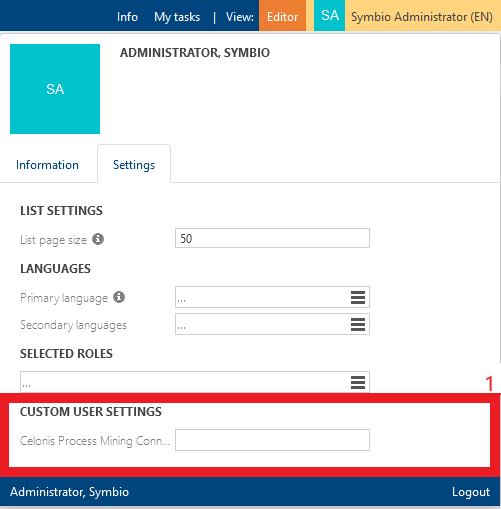
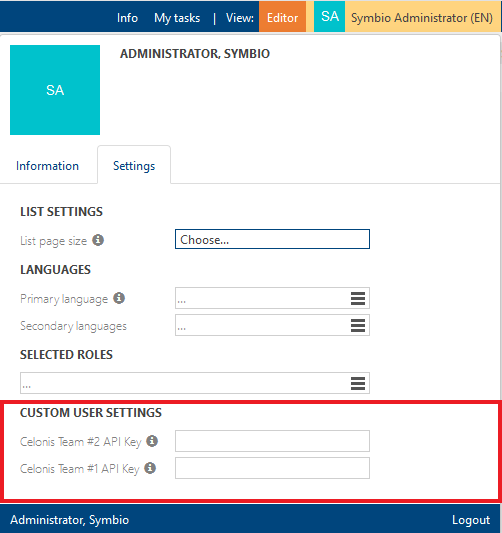
Resolved comments

diff --git a/docs/admin/services/celonis-process-mining-connector/configuration.md b/docs/admin/services/celonis-process-mining-connector/configuration.md
@@ -6,20 +6,28 @@
 1. Log on to the **/_sysadmin/_admin** section of Symbio (Requires System Administration access)
 1. Switch to "Editor" mode
 1. Go to the Admin area ![admin](media/admin.png)
-1. Go to the "Extended configuration" ![extended configuration](media/extendedcfg.png)
+1. Navigate to the "Extended configuration" ![extended configuration](media/extendedcfg.png)
 1. Select "New" and add a type for an external system with a preferred name (e.g. Celonis Process Mining Connector)
 1. Set the following attributes
-   1. **Name:** (Preferred Name, e.g. Celonis Process Mining Connector)
+   1. **Name:** (Preferred Name, e.g. Celonis Connector)
    1. **Description:** This service is used to export Symbio processes to Celonis and/or vice versa
-1. Upload the SYEX file under the settings "upload" group with the Title: "Celonis"
+1. Select the **"Add"**-Button in the "Settings"-Group of the detail content of the service type
+   1. A new window should pop up. Select the **"data"**-Tab on the top navigation of the windows
+   1. Select the Celonis service data. You can search for it on the top of the window (see screenshot)
+   ![service-type-data-window](media/celonis_select_ext_system_type.png)
+   1. If you can not find the Celonis service in this list, the Service is probably not shipped with your Symbio version. Please contact your Symbio system administrator in this case.
+   1. Note that you can alternatively upload a **.SYEX**-file under the **upload**-Tab on the top of the window
 1. Activate the external configuration ![activate](media/addsyex3.png)
 1. Apply changes ![Apply changes](media/apply.png)
 
 ### Add a configured external system linked to the active service
 1. Select "External systems" on the main navigation bar
-1. Add a new external system with Type of "CelonisProcessMiningConnector
-   1. Name the External System "Celonis Process Mining Connector"
-1. Add the URL data for the instance of the micro-service ![settings](media/celonis-synch-settings.png)
+1. Add a new external system with Type of **"Celonis Connector"**
+   1. Enter a name for the service. It is recommended to name the service like the Team you want to connect in this entry (e.g. Celonis Team 1)
+1. Add the URL data for the instance of the micro-service ![settings](media/celonis-ext-sys-settings-filled.png)
+   1. **Service URL:** Enter the URL of the service. It should look similar to the URL you see in the in the screenshot
+   2. **Service UI URL:** Ener the URL of the UI which the service uses. It should also look similar to the URL you see in the screenshot
+   3. **Celonis Team URL:** Enter the URL of your Celonis Team here. The pattern of the URL should be similar to the one given in the screenshot
 
 ### Connect the external system on the storage
 *Note: multiple storages can be connected to one instance of the service*
@@ -27,15 +35,15 @@
 1. Select a Storage Collection or create a new one
 1. Select "Storages" on the main navigation menu
 1. Choose an existing storage or create a new one
-1. Under the external systems group, select the configured external system under the "Celonis Synchronization Service" drop down items ![choose external system](media/storage-external-systems-select-celonis.png)
-1. Note at this point that you can select multiple different mining services for one storage if you want to
+1. Under the external systems group, select the configured external system under the "Celonis Synchronization Service" drop down items ![choose external system](media/storage-celonis-team-selection.png)
+1. Note that you can connect multiple Celonis Teams to the Storage if you want to
 
 ### Setting an API Key
 1. Select "Home" on the main navigation bar
-1. Select the storage you activated the Celonis Process Mining Connector for
-1. Select the user flyout in the upper right corner of your view
+1. Navigate to the storage you activated the Celonis Process Mining Connector for
+1. Open the user flyout in the upper right corner of your view
 1. In the flyout select the Tab "Settings"
-1. On the bottom of the flyout, enter a valid Celonis API Key in the given field (1). For further information on how to generate a Celonis API Key, please visit https://(YourCelonisTeamDomain)/help/display/CIBC/User+Profile
+1. On the bottom of the flyout, enter a valid Celonis API Key in the given field for you services (Highlighted area on the screenshot below). For further information on how to generate a Celonis API Key, please visit https://(YourCelonisTeamDomain)/help/display/CIBC/User+Profile
 ![enter celonis api key](media/celonis-connector-token-flyout.png)
 
 ### Result after adding the external system
@@ -43,4 +51,15 @@
     - All the required configuration will be added to Symbio
         - Possibility to add an API Key in the user flyout
         - Possibility to add an API Key in the "User" facet in the admin area
-        - Two new services for pushing and/or pulling processes from Symbio to Celonis and vice versa
+        - Two new service buttons for each added Celonis Team to push and/or pull processes from Symbio to Celonis and vice versa
+        - New entries in the navigation facet of the admin area
+
+### Optional / additional configuration
+If you want, you can customize the new created buttons for you team(s) regarding the lettering. Proceed as follows:
+1. Navigate into the admin area
+1. Select the **"Navigation"**-Facet
+1. Extend the **"Toolbar"** list entry
+1. Extend the **Services (Graphic)** list entry
+1. You should now see a list of items with the type **"Open dialog button"**. Select the button you want to edit
+1. You can now edit the label the button is displaying and / or translate the the label into a different language (see screenshot)
+![edit-and-translate-buttons](media/edit-button-labels.png)

diff --git a/docs/admin/services/celonis-process-mining-connector/usage_pull.md b/docs/admin/services/celonis-process-mining-connector/usage_pull.md
@@ -2,7 +2,7 @@
 
 ## Prerequisites for the Celonis Process Mining Connector
 - The micro-service must be accessible
-- The configured external system must be loaded on the storage where the system will be used
+- The configured external system must be connected to the storage where the system will be used
 - A valid Celonis API Key should have been set
 
 With all the prerequisites above, you should now be able to pull processes from Celonis into Symbio or update them if they already exist. See the steps below to learn how.

diff --git a/docs/admin/services/celonis-process-mining-connector/usage_push.md b/docs/admin/services/celonis-process-mining-connector/usage_push.md
@@ -2,7 +2,7 @@
 
 ## Prerequisites for the Celonis Process Mining Connector
 - The micro-service must be accessible
-- The configured external system must be loaded on the storage where the system will be used
+- The configured external system must be connected to the storage where the system will be used
 - A valid Celonis API Key should have been set
 
 With all the prerequisites above, you should now be able to push processes from Symbio to Celonis or update them if they already exist. See the steps below to learn how.
